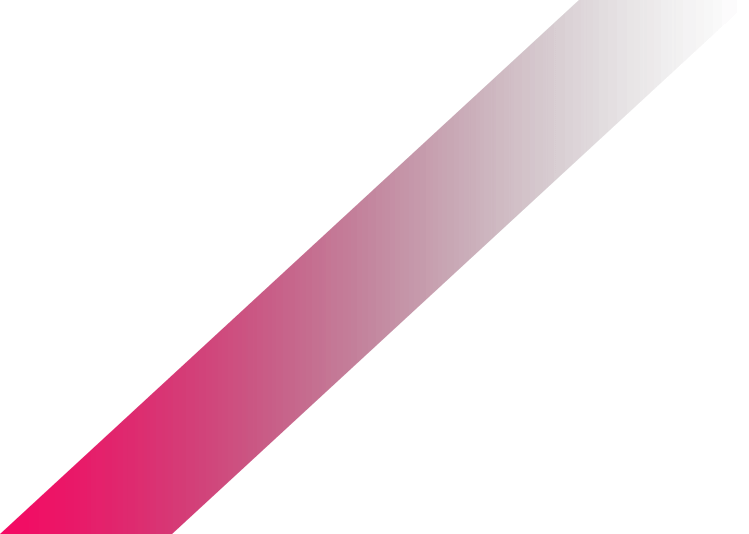
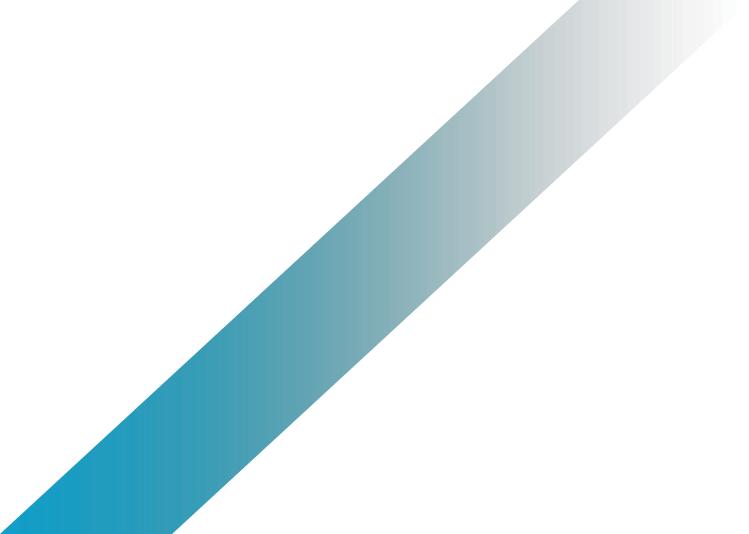
fix

Changed region(s): [[0.0, 0.1199, 0.6756, 1.0]]

diff --git a/public/assets/css/zefxa.css b/public/assets/css/zefxa.css
@@ -32,7 +32,7 @@
   --zefxa-white: #f3f4f6;
   --zefxa-white-rgb: 243, 244, 246;
 
-  --zefxa-base: #334155;
+  --zefxa-base: #2596be;
   --zefxa-base-rgb: 51, 65, 85;
 
   --zefxa-black: #111827;
